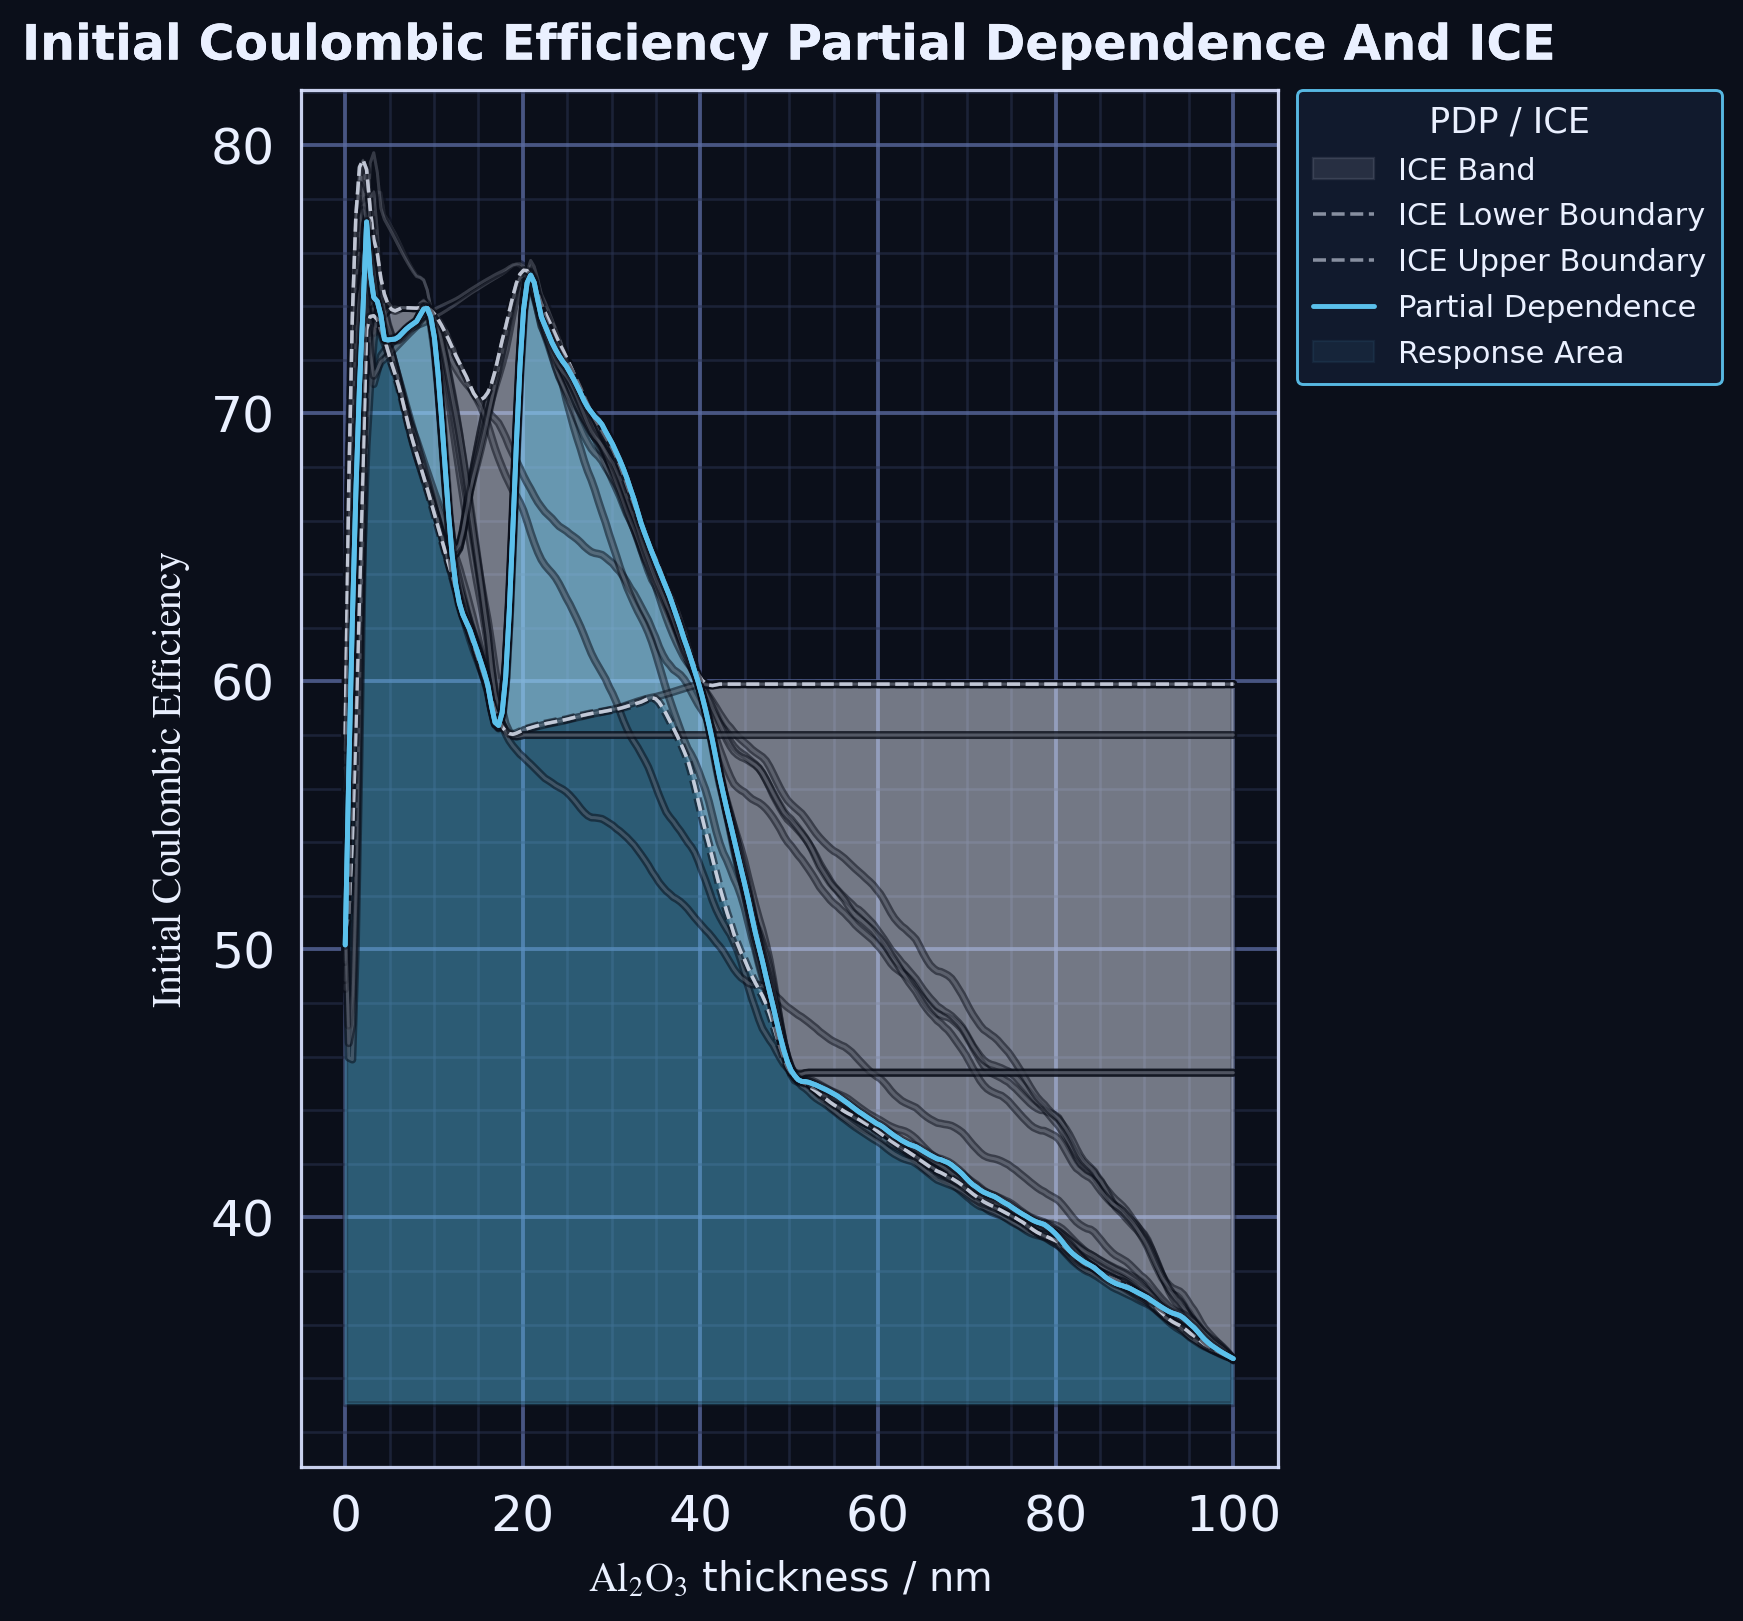
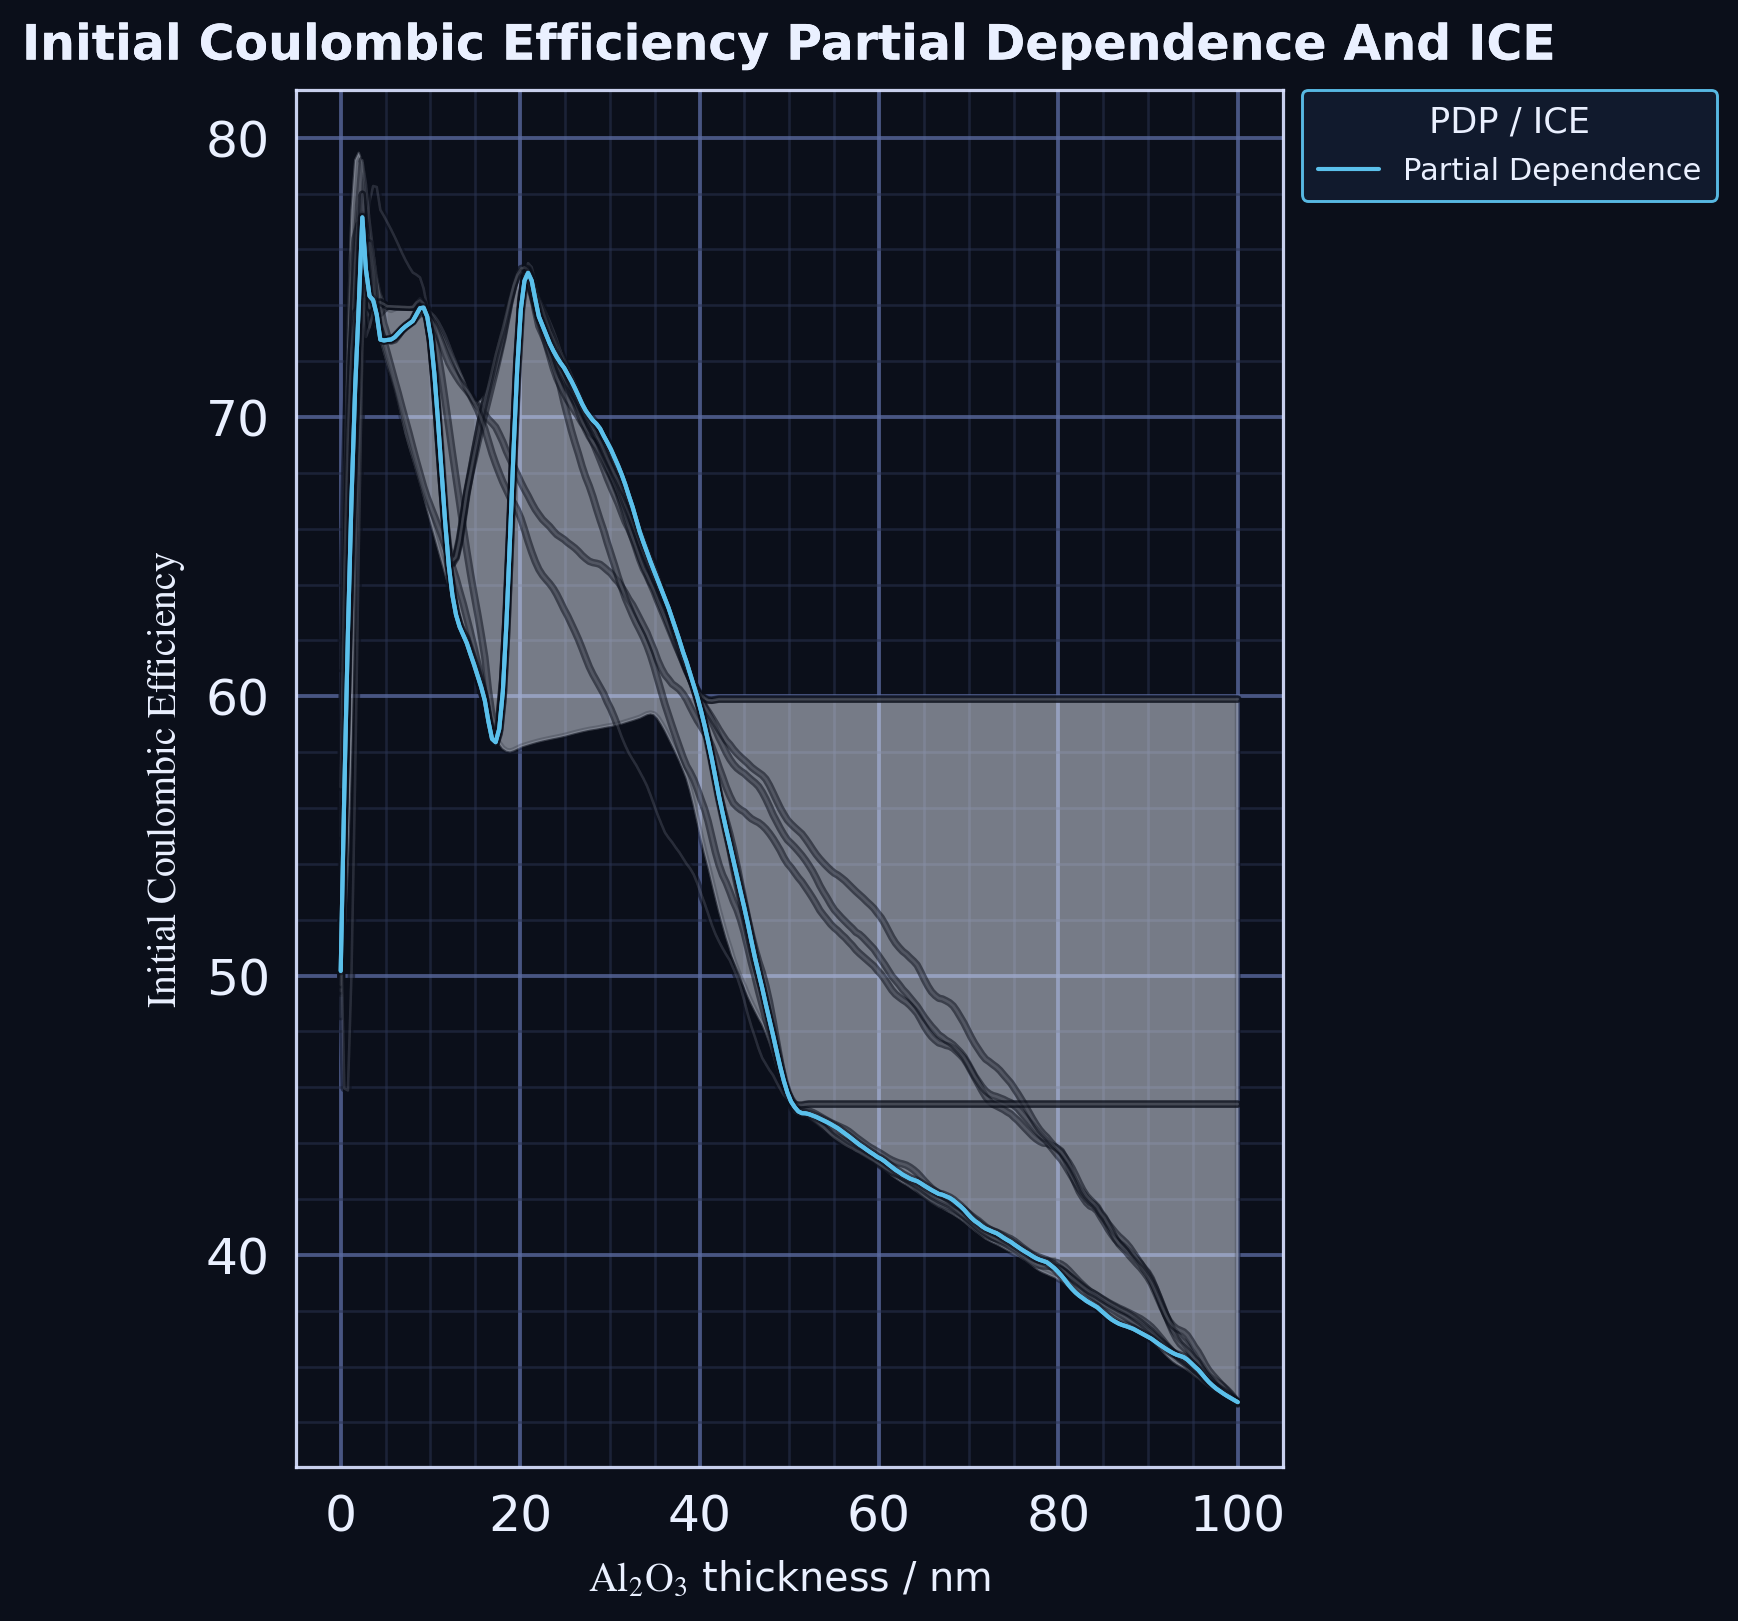
Simplify scientific styling for PDP and EDA
- Simplify PartialDependence (PDP/ICE): fewer, lighter ICE curves; thinner PDP line; hide uncertainty bands from legends.
- Make EDA bivariate/grouped more journal-like: thinner lines, cohort quantile strips (10–90%) without legend entries; Spearman labels use $\\rho_{\\mathrm{s}}$.
- Regenerate outputs via run_all.py.

Made-with: Cursor

diff --git a/src/eda.py b/src/eda.py
@@ -95,6 +95,28 @@ def _linear_fit_with_residual_quantile_band(
     return grid, yhat_grid, rq_lo, rq_hi
 
 
+def _group_quantiles_by_x(
+    df: pd.DataFrame,
+    x_col: str,
+    y_col: str,
+    qs: tuple[float, ...] = (0.10, 0.50, 0.90),
+) -> tuple[np.ndarray, dict[float, np.ndarray]] | None:
+    """
+    Per-thickness quantiles for discrete x, returned as sorted arrays.
+    """
+    try:
+        gq = df.groupby(x_col)[y_col].quantile(list(qs)).unstack()
+        gx = gq.index.to_numpy(dtype=float)
+        order = np.argsort(gx)
+        gx = gx[order]
+        out: dict[float, np.ndarray] = {}
+        for q in qs:
+            out[q] = gq[q].to_numpy(dtype=float)[order]
+        return gx, out
+    except Exception:
+        return None
+
+
 def run_deep_eda(
     df: pd.DataFrame,
     x_col: str,
@@ -321,10 +343,10 @@ def run_deep_eda(
             q75s = smooth_curve_1d(q75[order])
             q50s = smooth_curve_1d(q50[order])
             gxo = gx[order]
-            ax.fill_between(gxo, q25s, q75s, color=PERO.text, alpha=0.08, label="Interquartile Band")
-            ax.plot(gxo, q50s, color=PERO.green, linewidth=1.6, label="Median By Thickness")
-            ax.plot(gxo, q25s, color=PERO.green, linewidth=1.1, linestyle="--", alpha=0.45, label="Quartile Lower")
-            ax.plot(gxo, q75s, color=PERO.green, linewidth=1.1, linestyle="--", alpha=0.45, label="Quartile Upper")
+            ax.fill_between(gxo, q25s, q75s, color=PERO.text, alpha=0.08, label="_nolegend_")
+            ax.plot(gxo, q50s, color=PERO.green, linewidth=1.20, label="Median By Thickness")
+            ax.plot(gxo, q25s, color=PERO.green, linewidth=0.85, linestyle="--", alpha=0.45, label="_nolegend_")
+            ax.plot(gxo, q75s, color=PERO.green, linewidth=0.85, linestyle="--", alpha=0.45, label="_nolegend_")
         except Exception:
             pass
 
@@ -342,15 +364,15 @@ def run_deep_eda(
             fit = _linear_fit_with_residual_quantile_band(x, yv, q_lo=0.10, q_hi=0.90)
             if fit is not None:
                 gx, gp, rq_lo, rq_hi = fit
-                ax.fill_between(gx, gp + rq_lo, gp + rq_hi, color=PERO.orange, alpha=0.10, label="Quantile Band (10–90%)")
-                ax.plot(gx, gp, color=PERO.orange, linewidth=1.6, label="Linear Trend")
+                ax.fill_between(gx, gp + rq_lo, gp + rq_hi, color=PERO.orange, alpha=0.10, label="_nolegend_")
+                ax.plot(gx, gp, color=PERO.orange, linewidth=1.25, label="Linear Trend")
         except Exception:
             pass
 
         # Thickness rug (shows discrete support without cluttering the y-scale)
         try:
             rug_y = y_lo - 0.04 * y_span
-            ax.scatter(x, np.full_like(x, rug_y, dtype=float), s=16, alpha=0.35, color=PERO.text, edgecolor=PERO.ink, linewidth=0.4, label="Thickness Rug")
+            ax.scatter(x, np.full_like(x, rug_y, dtype=float), s=14, alpha=0.30, color=PERO.text, edgecolor=PERO.ink, linewidth=0.35, label="_nolegend_")
         except Exception:
             pass
 
@@ -369,7 +391,7 @@ def run_deep_eda(
         xs = x[order]
         ys = yv[order]
         ys_s = smooth_curve_1d(ys)
-        ax.plot(xs, ys_s, linewidth=1.6, color=PERO.sky, label="Smoothed Profile")
+        ax.plot(xs, ys_s, linewidth=1.35, color=PERO.sky, label="Smoothed Profile")
         span = float(np.nanmax(ys_s) - np.nanmin(ys_s) + 1e-9)
         y_floor = float(np.nanmin(ys_s) - 0.03 * span)
         ax.fill_between(xs, y_floor, ys_s, color=PERO.sky, alpha=0.08, label="Profile Area")
@@ -382,8 +404,8 @@ def run_deep_eda(
             q25s = smooth_curve_1d(q25)
             q75s = smooth_curve_1d(q75)
             meds = smooth_curve_1d(med)
-            ax.fill_between(xs, q25s, q75s, color=PERO.text, alpha=0.10, label="Interquartile Band")
-            ax.plot(xs, meds, color=PERO.green, linewidth=1.6, label="Rolling Median")
+            ax.fill_between(xs, q25s, q75s, color=PERO.text, alpha=0.10, label="_nolegend_")
+            ax.plot(xs, meds, color=PERO.green, linewidth=1.25, label="Rolling Median")
             ax.plot(xs, q25s, color=PERO.green, linewidth=1.0, linestyle="--", alpha=0.4, label="Rolling Lower")
             ax.plot(xs, q75s, color=PERO.green, linewidth=1.0, linestyle="--", alpha=0.4, label="Rolling Upper")
         except Exception:
@@ -402,7 +424,7 @@ def run_deep_eda(
             coefs = np.polyfit(x, yv, deg=1)
             pred = np.polyval(coefs, x)
             resid = yv - pred
-            ax.scatter(x_j, resid, alpha=0.75, s=50, label="Linear Residuals", color=PERO.teal, edgecolor=PERO.ink, linewidth=0.7)
+            ax.scatter(x_j, resid, alpha=0.75, s=46, label="Linear Residuals", color=PERO.teal, edgecolor=PERO.ink, linewidth=0.6)
         except Exception:
             pass
         ax.axhline(0, color=PERO.text, linewidth=1.2, alpha=0.85)
@@ -442,10 +464,17 @@ def run_deep_eda(
         mu_s = smooth_curve_1d(mu)
         lo_s = smooth_curve_1d(mu - sg)
         hi_s = smooth_curve_1d(mu + sg)
-        ax.fill_between(gx, lo_s, hi_s, color=PERO.green, alpha=0.14, label="Uncertainty Band")
-        ax.plot(gx, mu_s, linestyle="-", linewidth=1.6, color=PERO.green, label="Mean Curve")
-        ax.plot(gx, lo_s, linestyle="--", linewidth=1.2, color=PERO.green, alpha=0.55, label="Lower Boundary")
-        ax.plot(gx, hi_s, linestyle="--", linewidth=1.2, color=PERO.green, alpha=0.55, label="Upper Boundary")
+        qpack = _group_quantiles_by_x(df, x_col=x_col, y_col=y, qs=(0.10, 0.50, 0.90))
+        if qpack is not None:
+            gx_q, qd = qpack
+            q10 = smooth_curve_1d(qd[0.10])
+            q50 = smooth_curve_1d(qd[0.50])
+            q90 = smooth_curve_1d(qd[0.90])
+            ax.fill_between(gx_q, q10, q90, color=PERO.text, alpha=0.10, label="_nolegend_")
+            ax.plot(gx_q, q50, linestyle="-", linewidth=1.25, color=PERO.green, label="Median Curve")
+        else:
+            ax.fill_between(gx, lo_s, hi_s, color=PERO.text, alpha=0.10, label="_nolegend_")
+            ax.plot(gx, mu_s, linestyle="-", linewidth=1.25, color=PERO.green, label="Mean Curve")
         ax.set_title(f"{y_title} Group Mean With Uncertainty")
         ax.set_xlabel(labels.x_label)
         ax.set_ylabel(y_label)
@@ -528,9 +557,9 @@ def run_deep_eda(
         ax=ax,
         linewidths=0.55,
         linecolor=PERO.panel,
-        cbar_kws={"shrink": 0.85, "label": r"Spearman $\rho_s$"},
+        cbar_kws={"shrink": 0.85, "label": r"Spearman $\rho_{\mathrm{s}}$"},
     )
-    ax.set_title(r"Correlation heatmap: Spearman $\rho_s$")
+    ax.set_title(r"Correlation heatmap: Spearman $\rho_{\mathrm{s}}$")
     ax.tick_params(axis="x", labelrotation=28, labelsize=10)
     ax.tick_params(axis="y", labelrotation=0, labelsize=10)
     for lab in ax.get_xticklabels():

diff --git a/src/explainability.py b/src/explainability.py
@@ -268,23 +268,24 @@ def pdp_ice_1d(model: Any, X: pd.DataFrame, y_cols: list[str], out_plots: Path, 
         fig, ax = plt.subplots(figsize=(7.5, 7.5))
         set_dark_background(fig, ax)
 
-        # ICE lines as bootstrapped response curves
+        # ICE lines as bootstrapped response curves (keep light + sparse; focus on PDP)
         if band is not None and band.shape[2] > j:
-            for k in range(min(25, band.shape[0])):
-                ax.plot(x_grid, smooth_curve_1d(band[k, :, j]), color=PERO.text, alpha=0.10, linewidth=1.0)
+            for k in range(min(10, band.shape[0])):
+                ax.plot(
+                    x_grid,
+                    smooth_curve_1d(band[k, :, j]),
+                    color=PERO.text,
+                    alpha=0.07,
+                    linewidth=0.85,
+                )
             q10 = np.nanpercentile(band[:, :, j], 10, axis=0)
             q90 = np.nanpercentile(band[:, :, j], 90, axis=0)
             q10s = smooth_curve_1d(q10)
             q90s = smooth_curve_1d(q90)
-            ax.fill_between(x_grid, q10s, q90s, color=PERO.text, alpha=0.10, label="ICE Band")
-            ax.plot(x_grid, q10s, color=PERO.text, linewidth=1.15, linestyle="--", alpha=0.55, label="ICE Lower Boundary")
-            ax.plot(x_grid, q90s, color=PERO.text, linewidth=1.15, linestyle="--", alpha=0.55, label="ICE Upper Boundary")
+            ax.fill_between(x_grid, q10s, q90s, color=PERO.text, alpha=0.11, label="_nolegend_")
 
         pdp_line = smooth_curve_1d(Yg[:, j])
-        ax.plot(x_grid, pdp_line, color=PERO.sky, linewidth=1.6, label="Partial Dependence")
-        span = float(np.nanmax(pdp_line) - np.nanmin(pdp_line) + 1e-9)
-        y_floor = float(np.nanmin(pdp_line) - 0.04 * span)
-        ax.fill_between(x_grid, y_floor, pdp_line, color=PERO.sky, alpha=0.07, label="Response Area")
+        ax.plot(x_grid, pdp_line, color=PERO.sky, linewidth=1.35, label="Partial Dependence")
         ax.set_title(f"{t_title} Partial Dependence And ICE")
         ax.set_xlabel(labels.x_label)
         ax.set_ylabel(y_label)
@@ -383,14 +384,14 @@ def local_sensitivity_curve(
         if band is not None and band.shape[2] > j:
             q10_u = smooth_curve_1d(np.nanpercentile(band[:, :, j], 10, axis=0))
             q90_u = smooth_curve_1d(np.nanpercentile(band[:, :, j], 90, axis=0))
-            ax.fill_between(x_grid, q10_u, q90_u, color=PERO.text, alpha=0.10, label="Uncertainty Band")
-            ax.plot(x_grid, q10_u, color=PERO.sky, linewidth=1.15, linestyle="--", alpha=0.55, label="Uncertainty Lower")
-            ax.plot(x_grid, q90_u, color=PERO.sky, linewidth=1.15, linestyle="--", alpha=0.55, label="Uncertainty Upper")
+            ax.fill_between(x_grid, q10_u, q90_u, color=PERO.text, alpha=0.10, label="_nolegend_")
+            ax.plot(x_grid, q10_u, color=PERO.sky, linewidth=0.95, linestyle="--", alpha=0.55, label="_nolegend_")
+            ax.plot(x_grid, q90_u, color=PERO.sky, linewidth=0.95, linestyle="--", alpha=0.55, label="_nolegend_")
 
-        ax.plot(x_grid, yg_s, linewidth=1.6, color=PERO.sky, label="Predicted Response")
+        ax.plot(x_grid, yg_s, linewidth=1.35, color=PERO.sky, label="Predicted Response")
         span_y = float(np.nanmax(yg_s) - np.nanmin(yg_s) + 1e-9)
         y_lo_fill = float(np.nanmin(yg_s) - 0.04 * span_y)
-        ax.fill_between(x_grid, y_lo_fill, yg_s, color=PERO.sky, alpha=0.08, label="Response Fill")
+        ax.fill_between(x_grid, y_lo_fill, yg_s, color=PERO.sky, alpha=0.07, label="_nolegend_")
         ax.set_title(f"{t_title} Sensitivity Curve")
         ax.set_ylabel(y_label)
         legend_outside_top_right(ax, ncol=1, title="Response")
